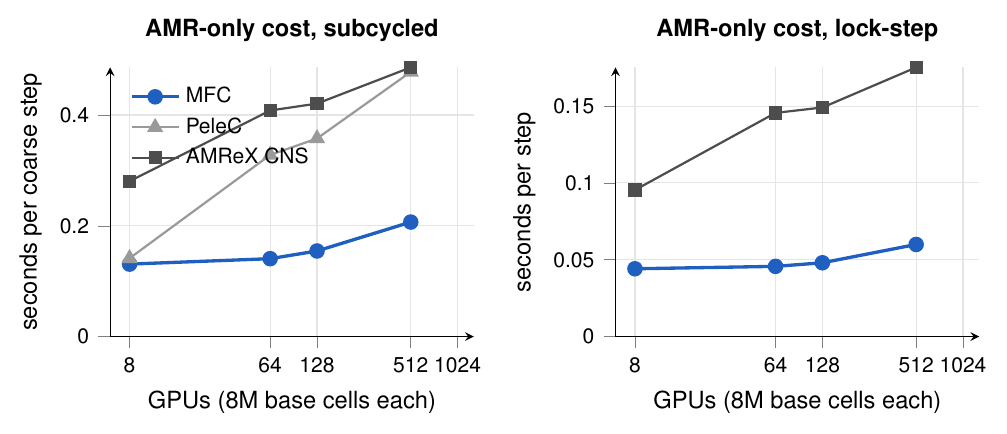
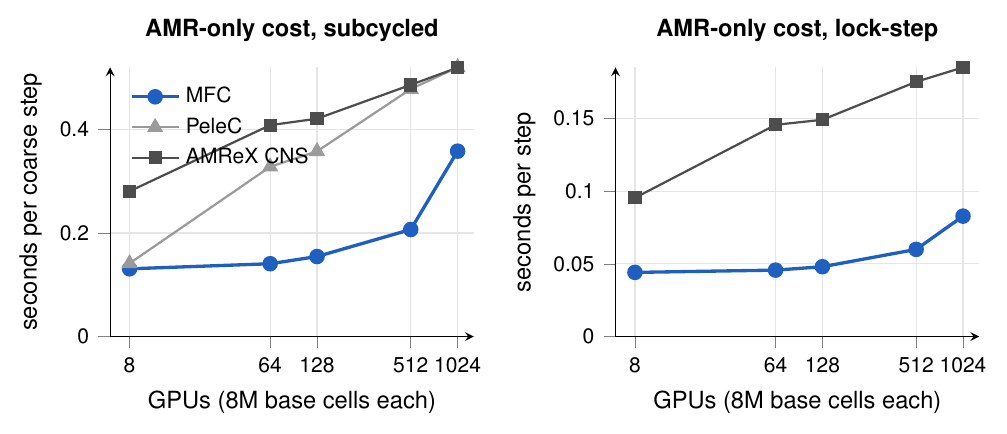
AMR results: 1024-GPU rung for all codes and the fastest MFC build

diff --git a/misc/amr-results/README.md b/misc/amr-results/README.md
@@ -10,17 +10,19 @@ MFC: WENO5 + HLLC, 5-equation single fluid (`mp_weno = F`, `amr_tag_abs = T`, `a
 their second-order schemes. Same grid, dt, tag rule and refinement ratio; MFC refines ~1.3x more volume (40.5% vs 30.3%
 subcycled). AMR-only = wall minus each code's own hydro RHS.
 
-## Headline (subcycled, integrated build 5d8ab069)
+## Headline (subcycled, fastest MFC build 7273d602)
 | GPUs | MFC s/step | AMReX CNS | PeleC | MFC efficiency | AMReX | PeleC | MFC AMR-only | AMReX | PeleC |
 |---|---|---|---|---|---|---|---|---|---|
-| 8 | 0.765 | 0.467 | 0.600 | 1 | 1 | 1 | 0.217 | 0.281 | 0.141 |
-| 64 | 0.797 | 0.600 | 0.802 | 0.96 | 0.78 | 0.75 | 0.233 | 0.408 | 0.328 |
-| 128 | 0.833 | 0.613 | 0.832 | 0.92 | 0.76 | 0.72 | 0.260 | 0.421 | 0.358 |
-| 512 | 0.899 | 0.678 | 0.952 | 0.85 | 0.69 | 0.63 | 0.313 | 0.486 | 0.478 |
+| 8 | 0.674 | 0.467 | 0.600 | 1 | 1 | 1 | 0.131 | 0.281 | 0.141 |
+| 64 | 0.699 | 0.600 | 0.802 | 0.96 | 0.78 | 0.75 | 0.141 | 0.408 | 0.328 |
+| 128 | 0.716 | 0.613 | 0.832 | 0.94 | 0.76 | 0.72 | 0.155 | 0.421 | 0.358 |
+| 512 | 0.775 | 0.678 | 0.952 | 0.87 | 0.69 | 0.63 | 0.207 | 0.486 | 0.478 |
+| 1024 | 0.944 | 0.712 | 0.994 | 0.71 | 0.66 | 0.60 | 0.358 | 0.519 | 0.520 |
 
-Lock-step at 512 GPUs: MFC 0.282 s/step (efficiency 0.89) vs AMReX 0.250 (0.68). Before the fixes (651b6d88) MFC subcycled was
-1.574 -> 2.183 s/step (8 -> 512 GPUs). The subcycling driver + swap packing (7273d602) cut a further ~12%: 0.699 s/step at
-64 GPUs (AMR-only 0.141), see `data/scaling_simple_deck_v3.csv`. 1024-GPU rung and the 7273d602 build at 128-1024 GPUs pending.
+Lock-step: MFC 0.259 s/step at 512 GPUs (efficiency 0.89) vs AMReX 0.250 (0.68); at 1024 GPUs 0.289 vs 0.260 (0.80 vs 0.65).
+Before the fixes (651b6d88) MFC subcycled was 1.574 -> 2.183 s/step (8 -> 512 GPUs). From 512 to 1024 GPUs MFC's step grows 22%
+(AMReX and PeleC 4-5%), mostly regrid clustering and migration (see Known issues). Data: `data/scaling_simple_deck_v2.csv`
+(through 1024 GPUs for all codes; MFC v2 = previous build) and `data/scaling_simple_deck_v3.csv` (the fastest build).
 
 ## Sponsor figures (`pgf/`)
 pgfplots sources, data tables and PDFs; PNG previews in `pgf/png/`. `*_pelec` variants compare MFC with PeleC only. Rebuild
@@ -94,4 +96,6 @@ Data: `data/fair_metrics.csv`, `categories_long.csv`, `waste_budget.csv`, `water
   2-2.7x slower with no coverage gain on the blast lattice. Fix: per-block slot sizing.
 - **`3D -> synthetic_turbulence` regression test** fails on `up/mega` (7273d602) at round-off level (rel 3.3e-9 vs 1e-10
   tolerance); to revisit when the branch is brought up to date with master.
+- **Regrid scaling beyond 512 GPUs.** Subcycled regrid time at 1024 GPUs is ~48 s vs 18 s at 512 (clustering 9.5 -> 22.9 s,
+  migration 3.8 -> 18.7 s): likely global steps that grow with rank count; the mini-app regrid scales further.
 - Level 2 cannot span multiple level-1 parents; no AMR for `model_eqns = 1`; restart on a different rank count segfaults.
